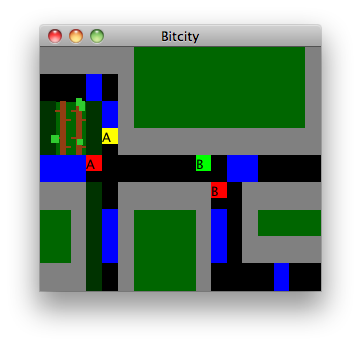
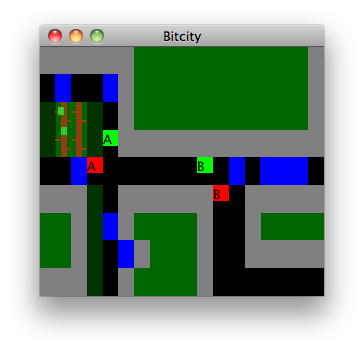
Forgot some details about the model.

diff --git a/doc/texto/trabalho.tex b/doc/texto/trabalho.tex
@@ -25,7 +25,7 @@ $..$A#############
 *> A-     B>>
 ###$ ######B #####
   #$ #    #  #    
-  #$ #    #+ #####
+  #$> &   #+ #####
 ###$ #    #+    <*
 \end{verbatim}
   \caption{Exemplo demonstrativo \label{short-one}}
@@ -36,7 +36,8 @@ quantidade de linhas, quantidade de colunas, número de pontos de
 partida, número de conjuntos de semáforos a serem sincronizados e a
 quantidade máxima de carros no mundo num dado instante.
 
-O caractere \verb!`#'! representa calçada, \verb!`$'! representa
+O caractere \verb!`#'! representa calçada, \verb!`&'! é um
+estacionamento, \verb!`$'! representa
 vegetação rasteira, \verb!`.'! uma árvore que ganha e perde folhas ao
 longo da execução, uma letra qualquer que se repete indica semáforos
 que pertencem a um mesmo conjunto. Os pontos de partida, que ficam
@@ -62,18 +63,25 @@ visão é utilizada para tomada de seis decisões:
 \item[Escolher entre mudar de direção ou não]: O elemento à frente
   contém um dos caracteres que indicam uma direção e à frente deste
   outro caractere, considerando a direção que representa, o símbolo
-  não se repete. Situação da linha 5, coluna 5 no Modelo \ref{short-one}.
+  não se repete. Situação da linha 5, coluna 5 no Modelo
+  \ref{short-one} e também na linha 8, coluna 5 para entrar em uma garagem.
 \item[Parar no semáforo]: Veículo, exceto ambulância, depara-se com
   sinal vermelho e obrigatoriamente para.
 \item[Buzinar]: O sinal está aberto, porém existe um veículo a sua
   frente que está parado.
-\item[Sair do mundo]: O veículo atingiu o limite do mundo. No Modelo
-  \ref{short-one} essa situação pode ocorrer somente ao atingir uma
-  linha após a 9 na coluna 5 e também uma coluna após a 18 na linha 5.
+\item[Sair do mundo]: O veículo atingiu o limite do mundo ou um
+  estacionamento. No Modelo
+  \ref{short-one} essa situação pode ocorrer ao atingir tanto uma
+  linha após a 9 na coluna 5, uma coluna após a 18 na linha 5 ou
+  a linha 8, coluna 7.
 \item[Deslocar-se]: Posição à frente não contém nenhum elemento
   especial, o veículo pode continuar deslocando-se seguindo sua
   direção corrente.
 \end{description}
+Além disso, todos os pontos de partida devem estar ligados -- no mesmo
+sentido de um grafo conexo. Deve ser possível atingir todos os outros
+pontos partindo de qualquer um deles, sem considerar a direção de
+deslocamento de veículos.
 
 A aplicação espera iniciar sua execução com um modelo que se adeque as
 especificações a cima. Caso isso não ocorra, a classe \verb!Parser!
@@ -87,29 +95,31 @@ responsável por essa tarefa. Na implementação atual, essa renderização
 é bastante simplificada, sendo feito uso de recursos simples como
 retângulos e círculos que são desenhados através de métodos existentes
 da classe \verb!Graphics2D!. As Figuras \ref{fig1} e \ref{fig2} exibem
-o resultado desta etapa para o Modelo \ref{short-one}.
-
+o resultado desta etapa para o Modelo \ref{short-one} em momentos
+distintos durante a execução.
 \begin{figure}[ht!]
   \centering
   \subfigure[Árvores crescendo, deslocamento de carros e outros detalhes \label{fig1}]{
-    \includegraphics[scale=0.60]{figs/map1_1.png}
-%  \caption{Modelo \ref{short-one} renderizado \label{fig1}}
+    \includegraphics[scale=0.58]{figs/map1_1.png}
   }
-%\end{figure}
-%\begin{figure}[ht!]
-%  \centering
   \subfigure[Chovendo no mundo \label{fig2}]{
-    \includegraphics[scale=0.60]{figs/map1_2.png}
-  %\caption{Chovendo no mundo \label{fig2}}
+    \includegraphics[scale=0.58]{figs/map1_2.png}
   }
   \caption{Modelo \ref{short-one} renderizado}
 \end{figure}
-
+A distinção entre ruas e vegetação comum exibida não requer elementos
+especiais no modelo textual. O algoritmo \textit{4-way flood fill} é
+aplicado a um ponto de partida qualquer e todas as posições atingidas,
+considerando que calçada, garagem e vegetação rasteira são bordas
+nesse preenchimento, são coloridas de preto. Isso colore todas as ruas
+devido a restrição dos pontos serem ligados. Em relação a calçadas e
+estacionamentos, atualmente não há distinção visual entre os dois
+elementos.
 
 A renderização do mundo ocorre em um \textit{thread} a parte, sendo
 esta criada durante a inicialização da aplicação. É permitido ajustar
 a velocidade da taxa de atualização, ou \textit{Frames Per Second} (FPS),
-durante a execução, podendo variar entre 30 e 45 renderizações por
+durante a execução, podendo variar de 30 a 45 renderizações por
 segundo do mundo por completo. Durante estas atualizações também
 decide-se entre criar um novo carro (classe \verb!Car!) ou não,
 inserir uma ambulância ou não, iniciar chuva e também brotar folhas em
